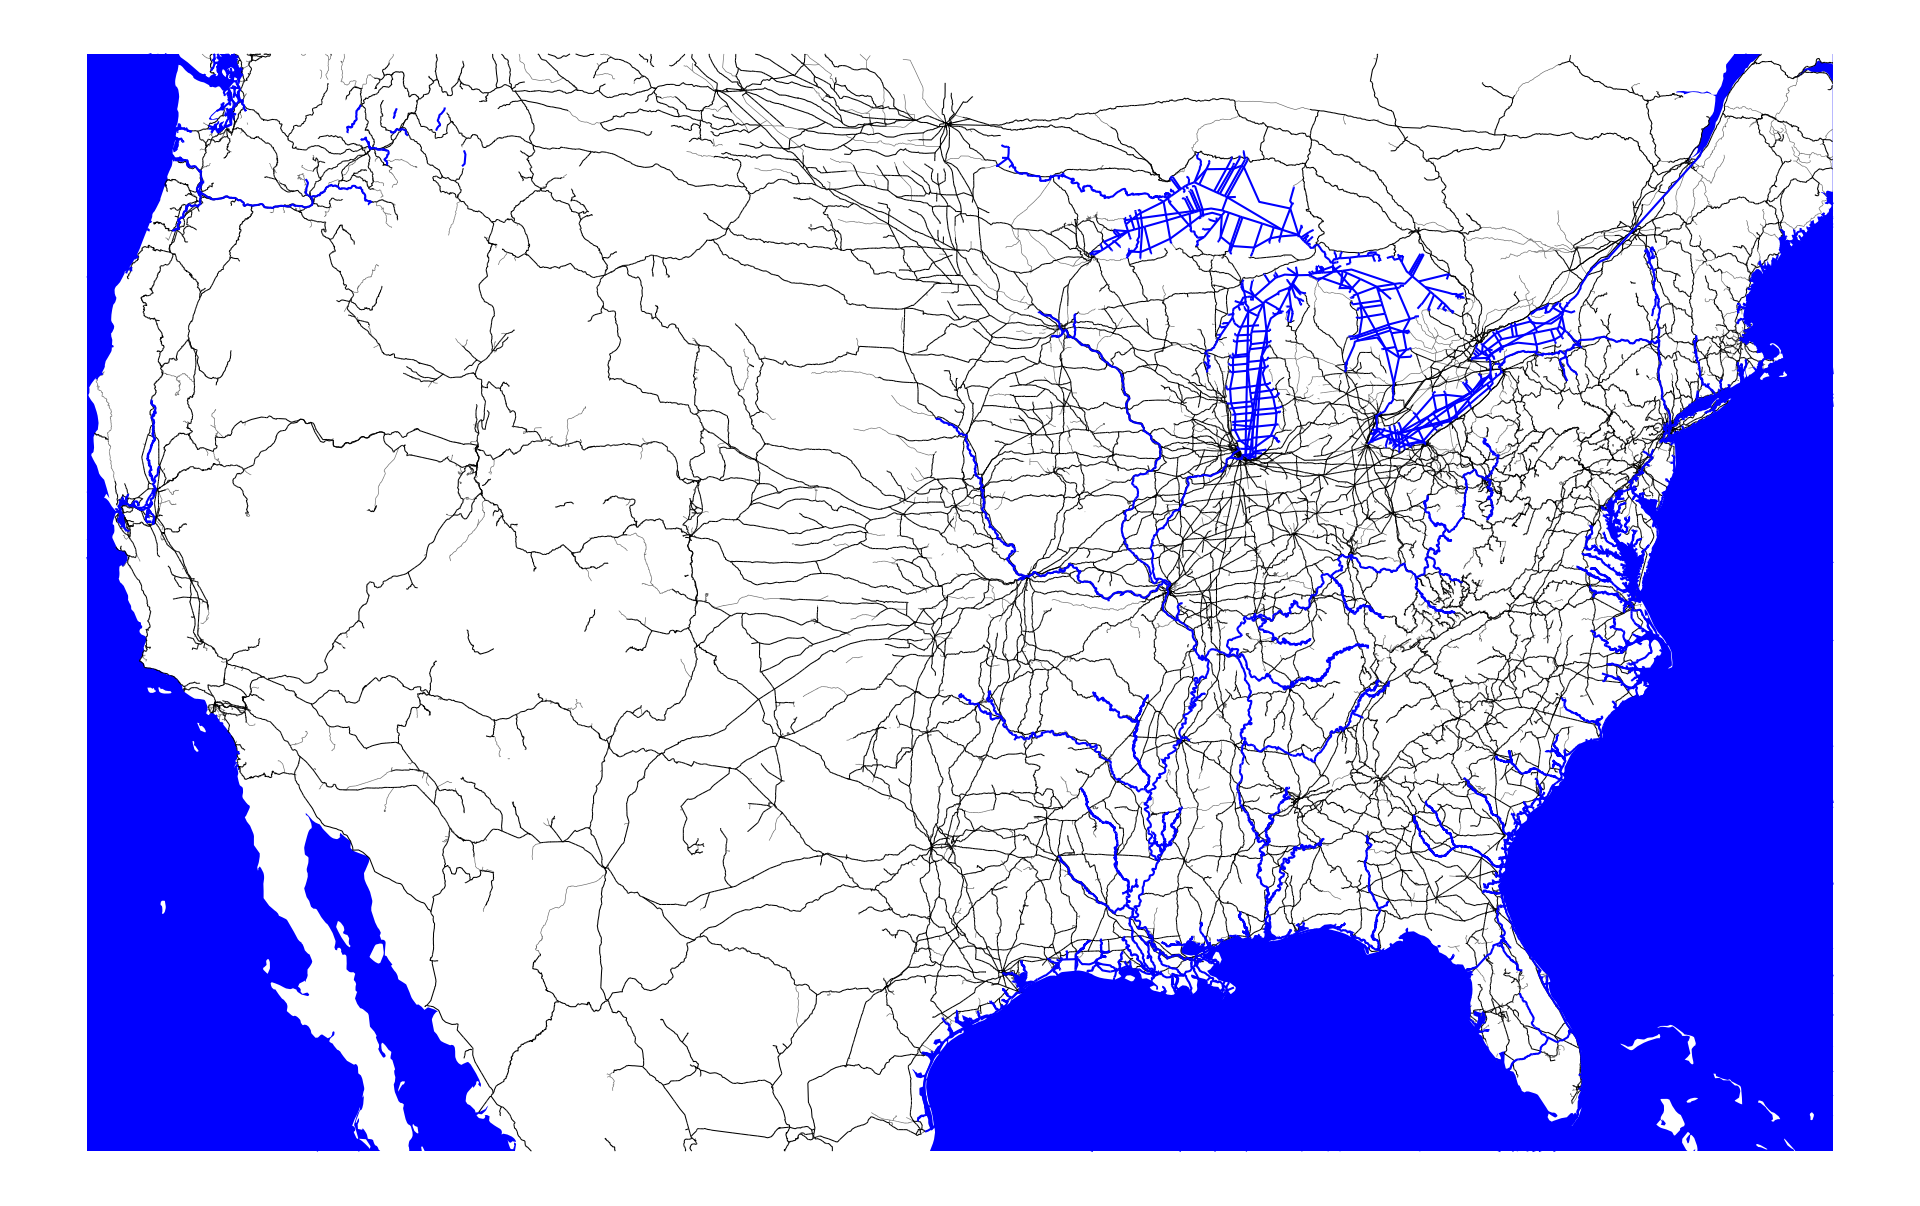
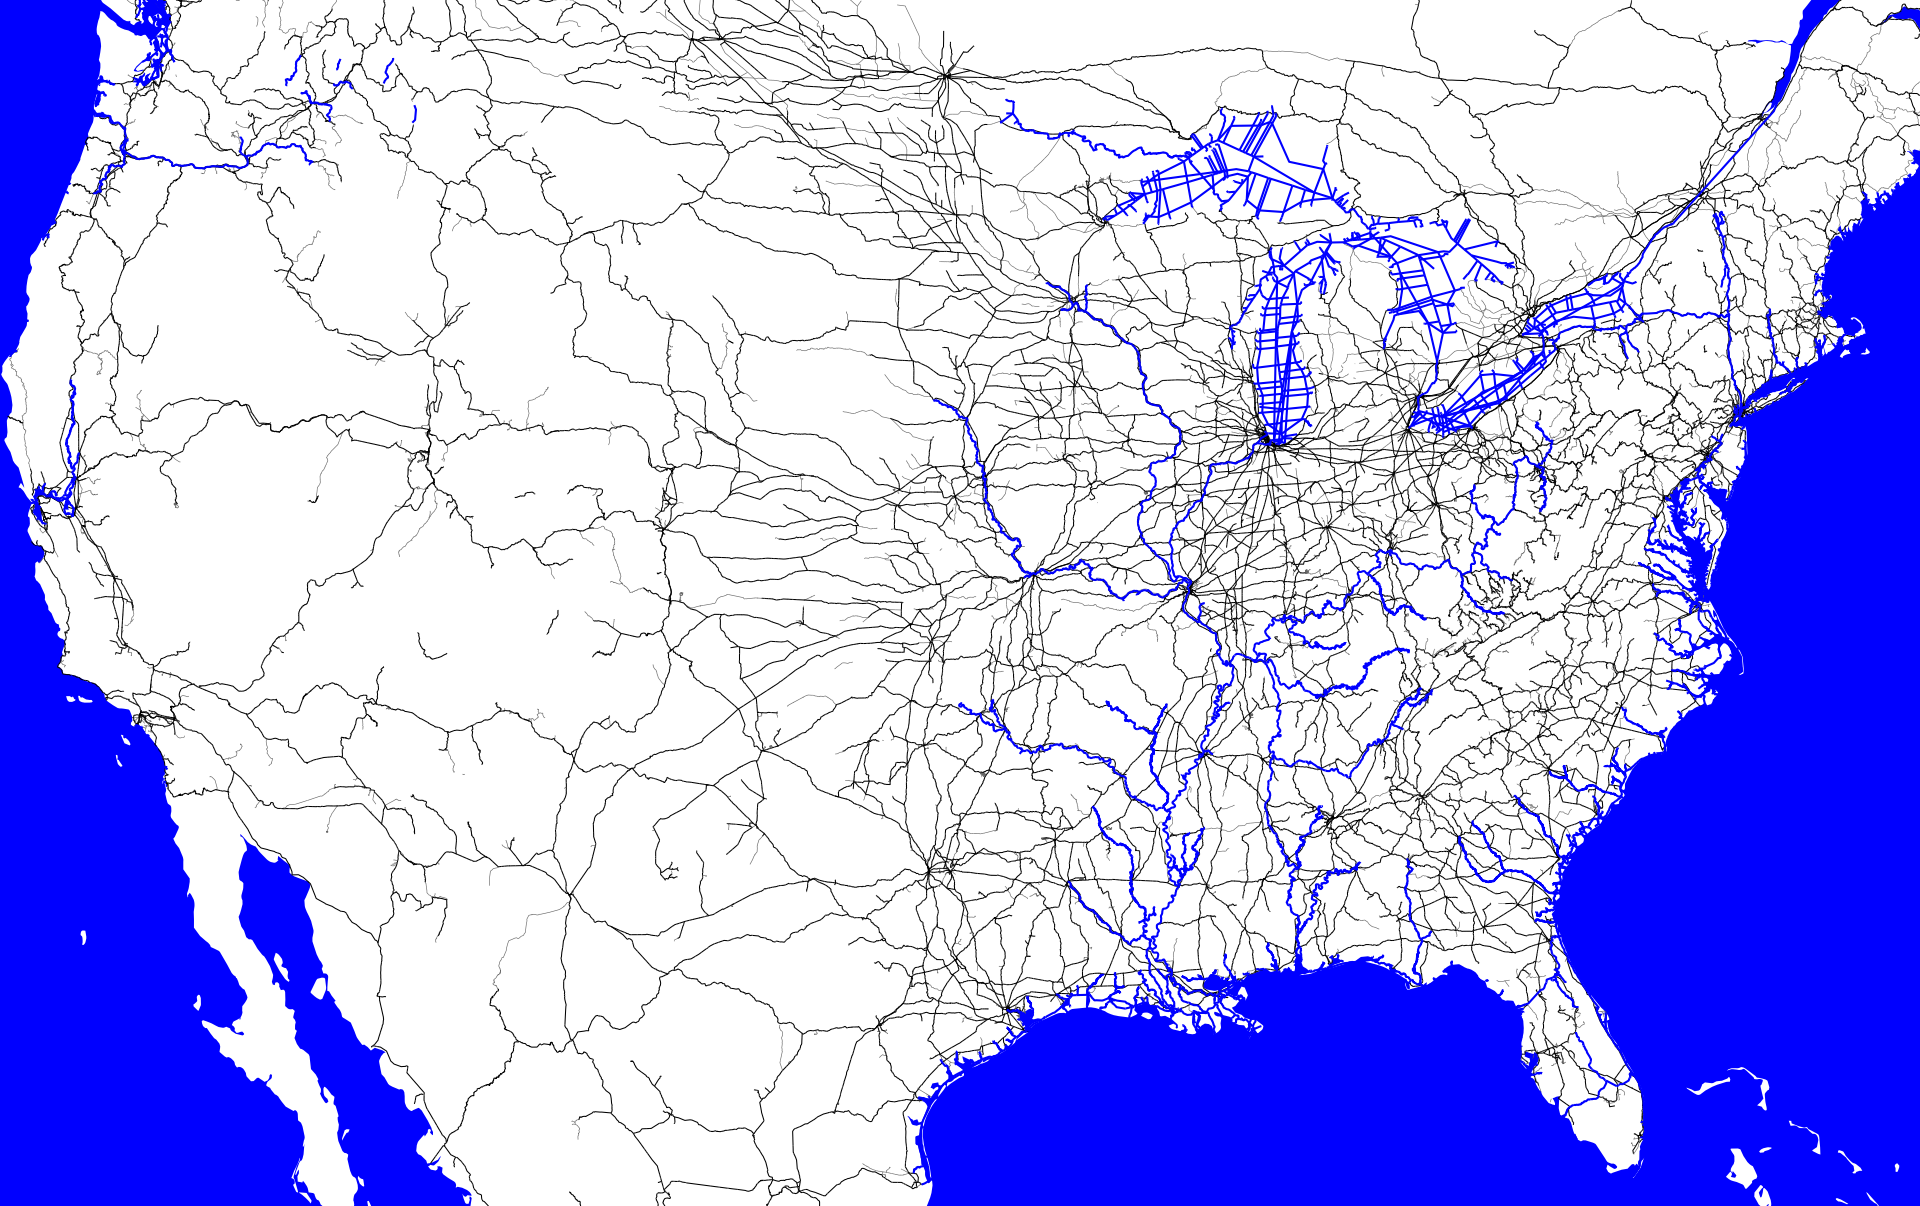
no more border on pretty network maps

diff --git a/transport.py b/transport.py
@@ -328,6 +328,8 @@ highway_map.plot(ax=ax,facecolor="none",linewidth=0.1,edgecolor='0.4')
 interstate_map.plot(ax=ax,facecolor="none",linewidth=0.25,edgecolor='0')
 water_map.plot(ax=ax,facecolor="none",linewidth=0.5,edgecolor='blue')
 pretty_road_img_path = os.path.join(cd,r'road_network.png')
+ax.margins(0)
+ax.tick_params(left=False, labelleft=False, bottom=False, labelbottom=False)
 plt.savefig(pretty_road_img_path,bbox_inches='tight',pad_inches=0,dpi=300)
 plt.clf()
 
@@ -340,6 +342,8 @@ us_land_map.plot(ax=ax,facecolor="white",linewidth=0.1,edgecolor='none')
 other_rail_map.plot(ax=ax,facecolor="none",linewidth=0.15,edgecolor='0.4')
 main_rail_map.plot(ax=ax,facecolor="none",linewidth=0.25,edgecolor='0')
 water_map.plot(ax=ax,facecolor="none",linewidth=0.5,edgecolor='blue')
+ax.margins(0)
+ax.tick_params(left=False, labelleft=False, bottom=False, labelbottom=False)
 pretty_rail_img_path = os.path.join(cd,r'rail_network.png')
 plt.savefig(pretty_rail_img_path,bbox_inches='tight',pad_inches=0,dpi=300)
 plt.clf()
